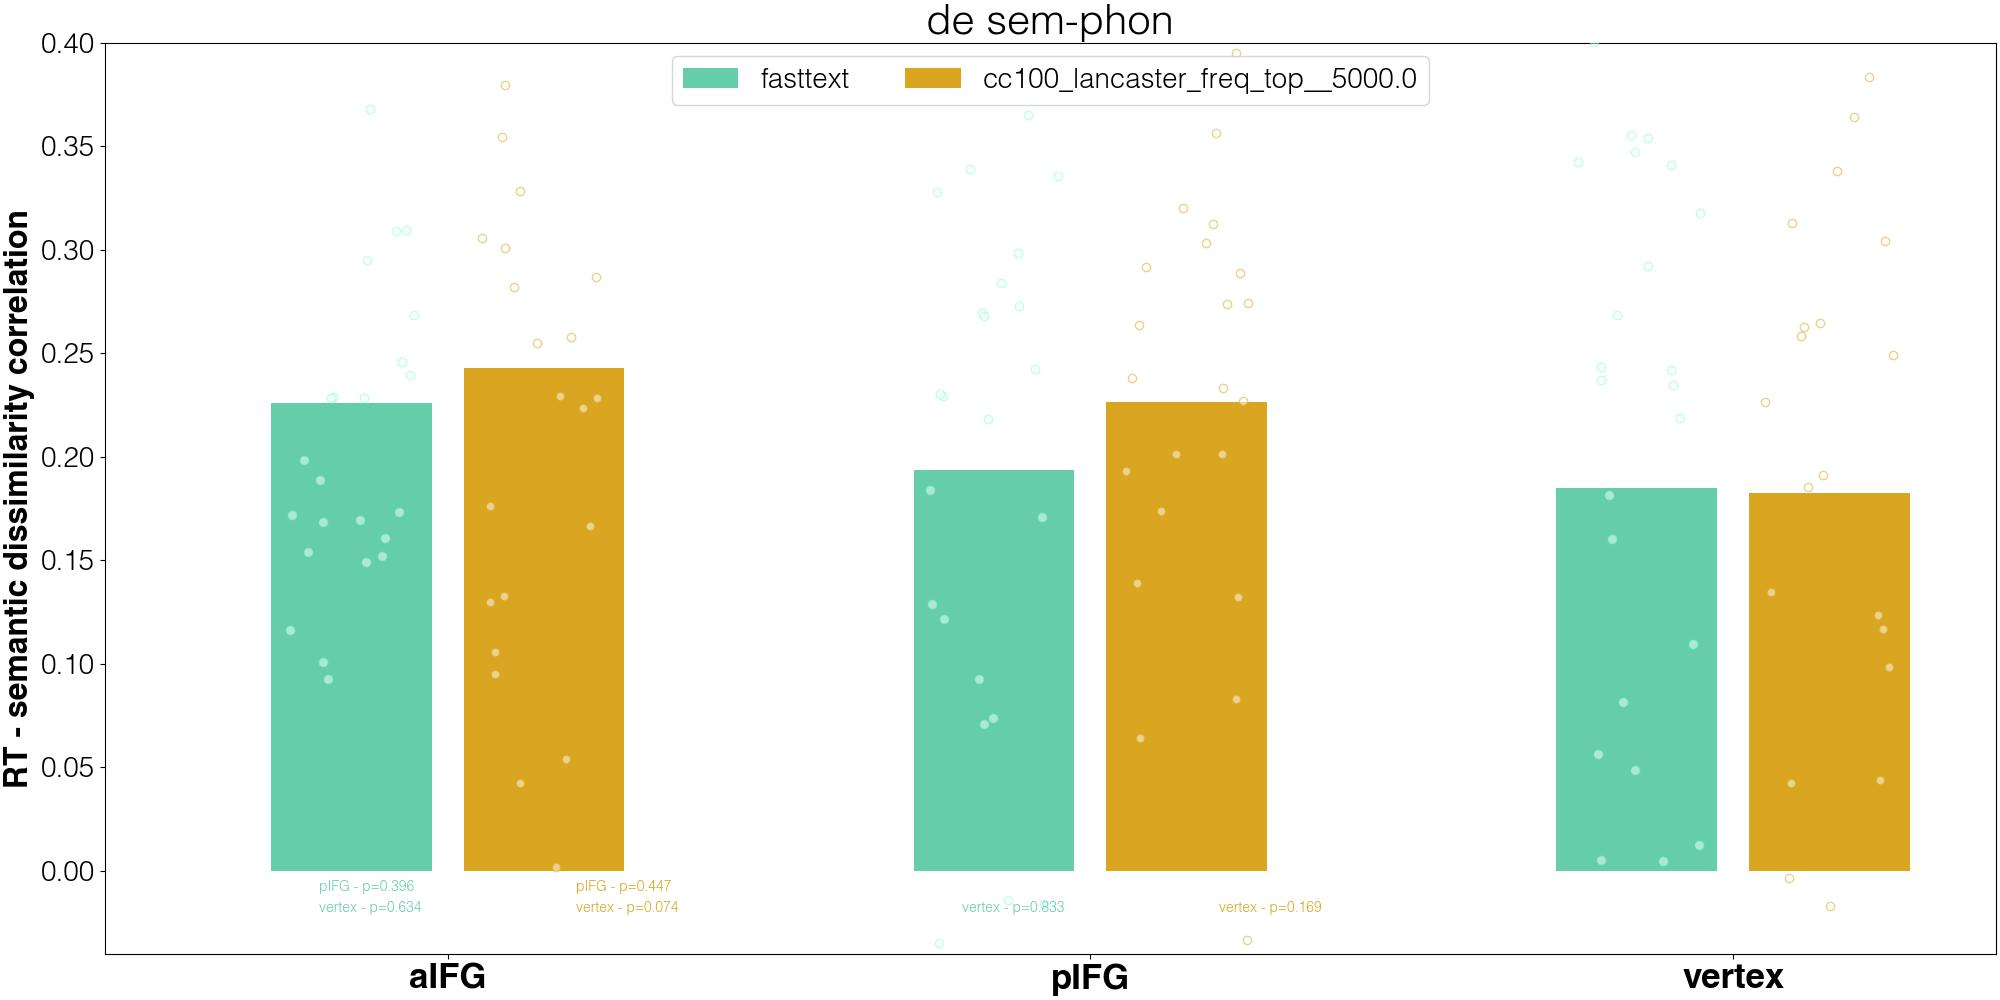
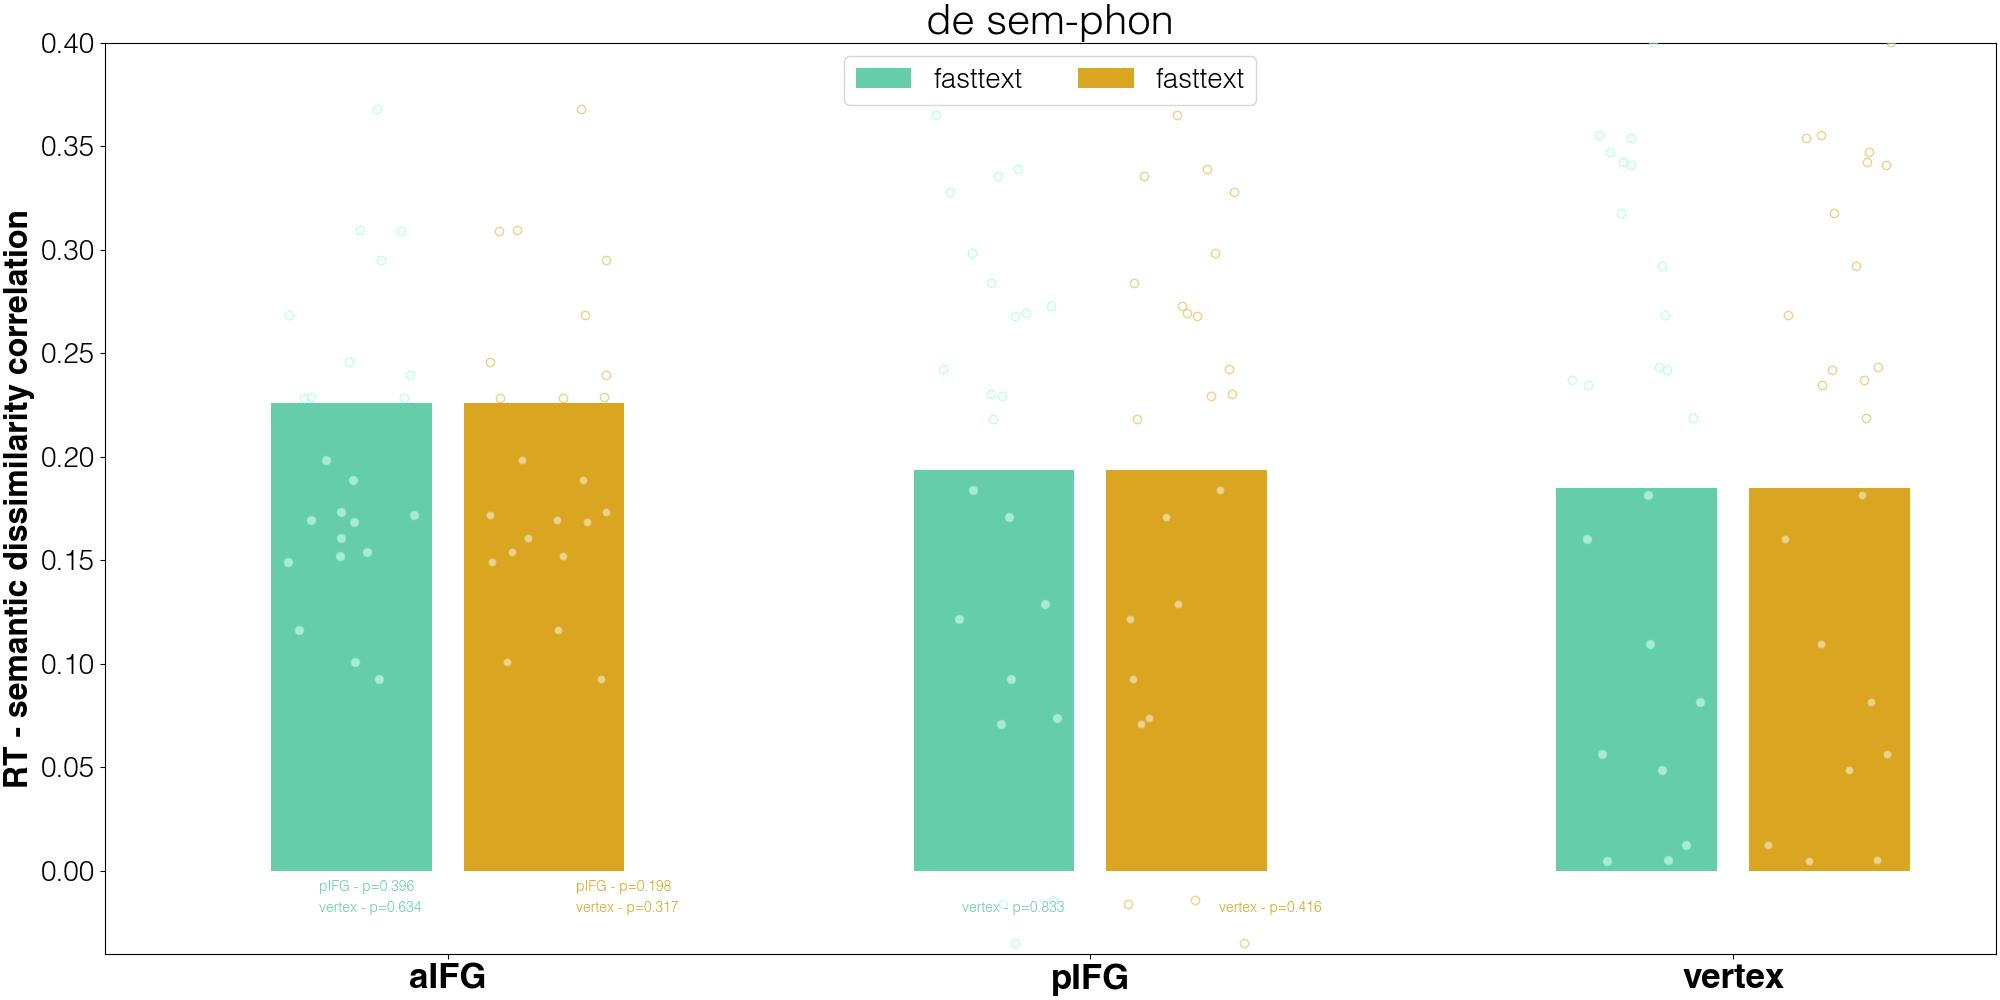
updated plots

diff --git a/plot_tms_bars.py b/plot_tms_bars.py
@@ -10,7 +10,8 @@ from scipy import stats
 
 ### Font setup
 # Using Helvetica as a font
-font_folder = '/import/cogsci/andrea/dataset/fonts/'
+#font_folder = '/import/cogsci/andrea/dataset/fonts/'
+font_folder = '/data/u_bruera_software/fonts'
 font_dirs = [font_folder, ]
 font_files = font_manager.findSystemFonts(fontpaths=font_dirs)
 for p in font_files:
@@ -45,6 +46,7 @@ for root, direc, fz in os.walk(
                     else:
                         short_model = '_'.join(model.split('_')[1:-2])
                 task = line[2]
+                task = task.replace('all_tms-', 'all_tms_')
                 if task not in results[lang].keys():
                     results[lang][task] = dict()
                 res = numpy.array(line[3:], dtype=numpy.float32)
@@ -121,9 +123,9 @@ for l, l_data in results.items():
                l, 
                )
     os.makedirs(out, exist_ok=True)
-    rel_tasks = set([d.split('_tms_')[0] for d in l_data.keys() if 'tms' in d and 'sound-act' not in d])
+    rel_tasks = set([d.replace('all_tms-', 'all_tms_').split('_tms_')[0] for d in l_data.keys() if 'tms' in d and 'sound-act' not in d])
     print(rel_tasks)
-    assert len(rel_tasks) in [1, 2]
+    #assert len(rel_tasks) in [1, 2]
     for t in rel_tasks:
         fig, ax = pyplot.subplots(constrained_layout=True, figsize=(20, 10))
         ax.set_ylim(bottom=-0.04, top=0.4)
@@ -188,10 +190,12 @@ for l, l_data in results.items():
                             color='mediumaquamarine',
                             )
         ### results for other model
+        '''
         other_model = best_other
         first_part = '_'.join(other_model.split('_')[:-1])
         second_part = float(other_model.split('_')[-1])
         ys = [l_data[c_t][first_part][second_part] for c_t in curr_ts]
+        '''
         ax.bar(
                [x+0.15 for x in range(len(xs))],
                [numpy.average(y) for y in ys],
@@ -275,10 +279,10 @@ for model in [best_ft, best_other]:
                    l, 
                    )
         os.makedirs(out, exist_ok=True)
-        all_rel_tasks = set([d.split('_tms_')[0] for d in l_data.keys() if 'sound-act' in d])
+        all_rel_tasks = set([d.replace('all_tms-', 'all_tms_').split('_tms_')[0] for d in l_data.keys() if 'sound-act' in d])
 
         print(all_rel_tasks)
-        assert len(all_rel_tasks) in [1, 2]
+        #assert len(all_rel_tasks) in [1, 2]
         for t in all_rel_tasks:
             all_curr_ts = sorted([w.split('_tms_')[1] for w in l_data.keys() if t in w])
             indiv_bars = sorted(set([t.split('_')[-1] if '#' not in t else t.split('#')[-1] for t in all_curr_ts]))
@@ -318,6 +322,10 @@ for model in [best_ft, best_other]:
                     'orange', 
                     'teal',
                     'magenta',
+                    'black',
+                    'indianred',
+                    'slateblue',
+                    'hotpink',
                     ]
             colors = dict()
             for k, col in zip(corrections.keys(), colors_l):
@@ -337,12 +345,12 @@ for model in [best_ft, best_other]:
                        [x+corr for x in range(len(ys))],
                        [numpy.average(y) for y in ys],
                        #color='mediumaquamarine',
-                       width=0.1,
+                       width=0.05,
                        color=colors[k]
                        )
                 ax.scatter(
                        #[x-0.15+(random.randint(-100, 100)*0.001)+corr for x in range(len(ys)) for y in ys[x]],
-                       [x+(random.randint(-25, 25)*0.001)+corr for x in range(len(ys)) for y in ys[x]],
+                       [x+(random.randint(-10, 10)*0.001)+corr for x in range(len(ys)) for y in ys[x]],
                        ys,
                        edgecolor=colors[k],
                        color='white',
@@ -431,8 +439,8 @@ for model in [best_ft, best_other]:
                                     color='goldenrod',
                                     )
                 '''
-            ax.legend(fontsize=20,
-                      ncols=4,
+            ax.legend(fontsize=15,
+                      ncols=7,
                       loc=8,
                       )
             pyplot.ylabel(

diff --git a/word_similarity_relatedness/test_count_sim_rel.py b/word_similarity_relatedness/test_count_sim_rel.py
@@ -725,8 +725,8 @@ for lang in tqdm(languages):
                     #('de_sem-phon_tms_pIFG', germ_tms_ifg['pIFG'], {}),
                     #('de_sem-phon_tms_aIFG', germ_tms_ifg['aIFG'], {}),
                     ## italian TMS
-                    ('it_distr-learn_all_tms-cereb', all_ita_tms_cereb['cedx'], {}),
-                    ('it_distr-learn_all_tms-vertex', all_ita_tms_cereb['cz'], {}),
+                    ('it_distr-learn_all_tms_cereb', all_ita_tms_cereb['cedx'], {}),
+                    ('it_distr-learn_all_tms_vertex', all_ita_tms_cereb['cz'], {}),
                     ('it_distr-learn_related_tms_cereb', related_ita_tms_cereb['cedx'], {}),
                     ('it_distr-learn_related_tms_vertex', related_ita_tms_cereb['cz'], {}),
                     ('it_distr-learn_unrelated_tms_cereb', unrelated_ita_tms_cereb['cedx'], {}),
